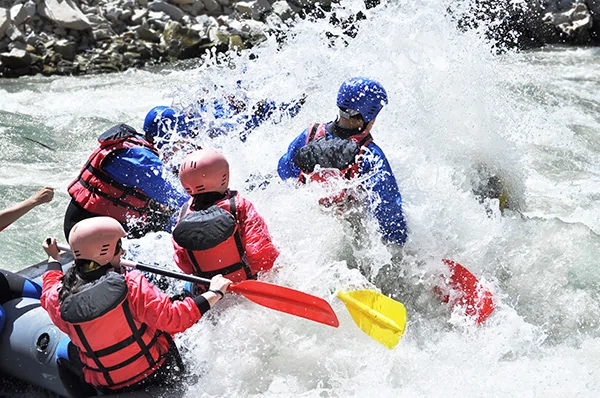
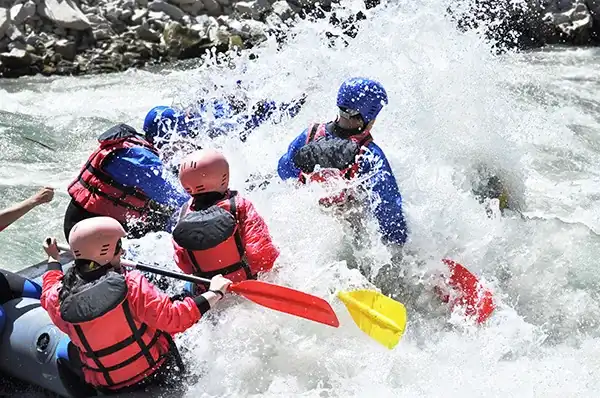
optimized images

diff --git a/wwr/about.html b/wwr/about.html
@@ -23,10 +23,10 @@
         </header>
         <main>
             <div class="hero">
-                <img src="images/river-evening-wide.jpg" alt="Hero Image - tranquil river">
+                <img src="images/river-evening-wide.webp" alt="Hero Image - tranquil river">
                 <h1>Whitewater Rafting</h1>
                 <article>
-                    <img src="images/rafting59_600.jpg" alt="Happy customers after a river run">
+                    <img src="images/rafting21_600.webp" alt="Happy customers on a river run">
                     <p>Lorem ipsum dolor sit amet consectetur adipisicing elit. Cum debitis amet quas vitae voluptates aspernatur nulla sunt a rerum ipsam sint iste at magnam aliquid placeat, mollitia minus cupiditate omnis voluptatum dignissimos nam voluptatibus? Ipsum quia, cupiditate labore, provident quasi dicta voluptatem nemo aspernatur nesciunt quisquam modi pariatur nihil, veritatis dolores sed consequatur repellendus blanditiis molestiae ipsam. Harum labore nulla, aliquid pariatur rem ipsum asperiores libero. Doloribus expedita quae consequuntur sit. Quas laboriosam aliquid cupiditate.</p>
                 </article>
             </div>
@@ -43,7 +43,7 @@
                     <figcaption>Blossom Bar</figcaption>
                 </figure>
                 <figure class="adventure_figure_2">
-                    <img src="images/rafting52_600.jpg" alt="Clavey Falls (Tuolumne River, California)">
+                    <img src="images/rafting52_600.webp" alt="Clavey Falls (Tuolumne River, California)">
                     <figcaption>Clavey Falls</figcaption>
                 </figure>
                 <figure class="adventure_figure_3">
@@ -55,7 +55,7 @@
                     <figcaption>Gore Rapid</figcaption>
                 </figure>
                 <figure class="adventure_figure_5">
-                    <img src="images/rafting58_600.jpg" alt="Half Day Adventure">
+                    <img src="images/rafting58_600.webp" alt="Half Day Adventure">
                     <figcaption>Half Day Adventure</figcaption>
                 </figure>
             </section>

diff --git a/wwr/styles/rafting.css b/wwr/styles/rafting.css
@@ -97,13 +97,13 @@ header nav a {
     color: var(--accent1-color);
     font-family: var(--text-font);
     font-size: 1.2em;
-    width: calc(100% - 120px);
+    width: calc(100% - 145px);
     margin: 0;
     padding: 0;
 }
 
 .hero article img {
-    width: 100px;
+    width: 130px;
     height: auto;
     box-sizing: border-box;
     margin: 10px;
